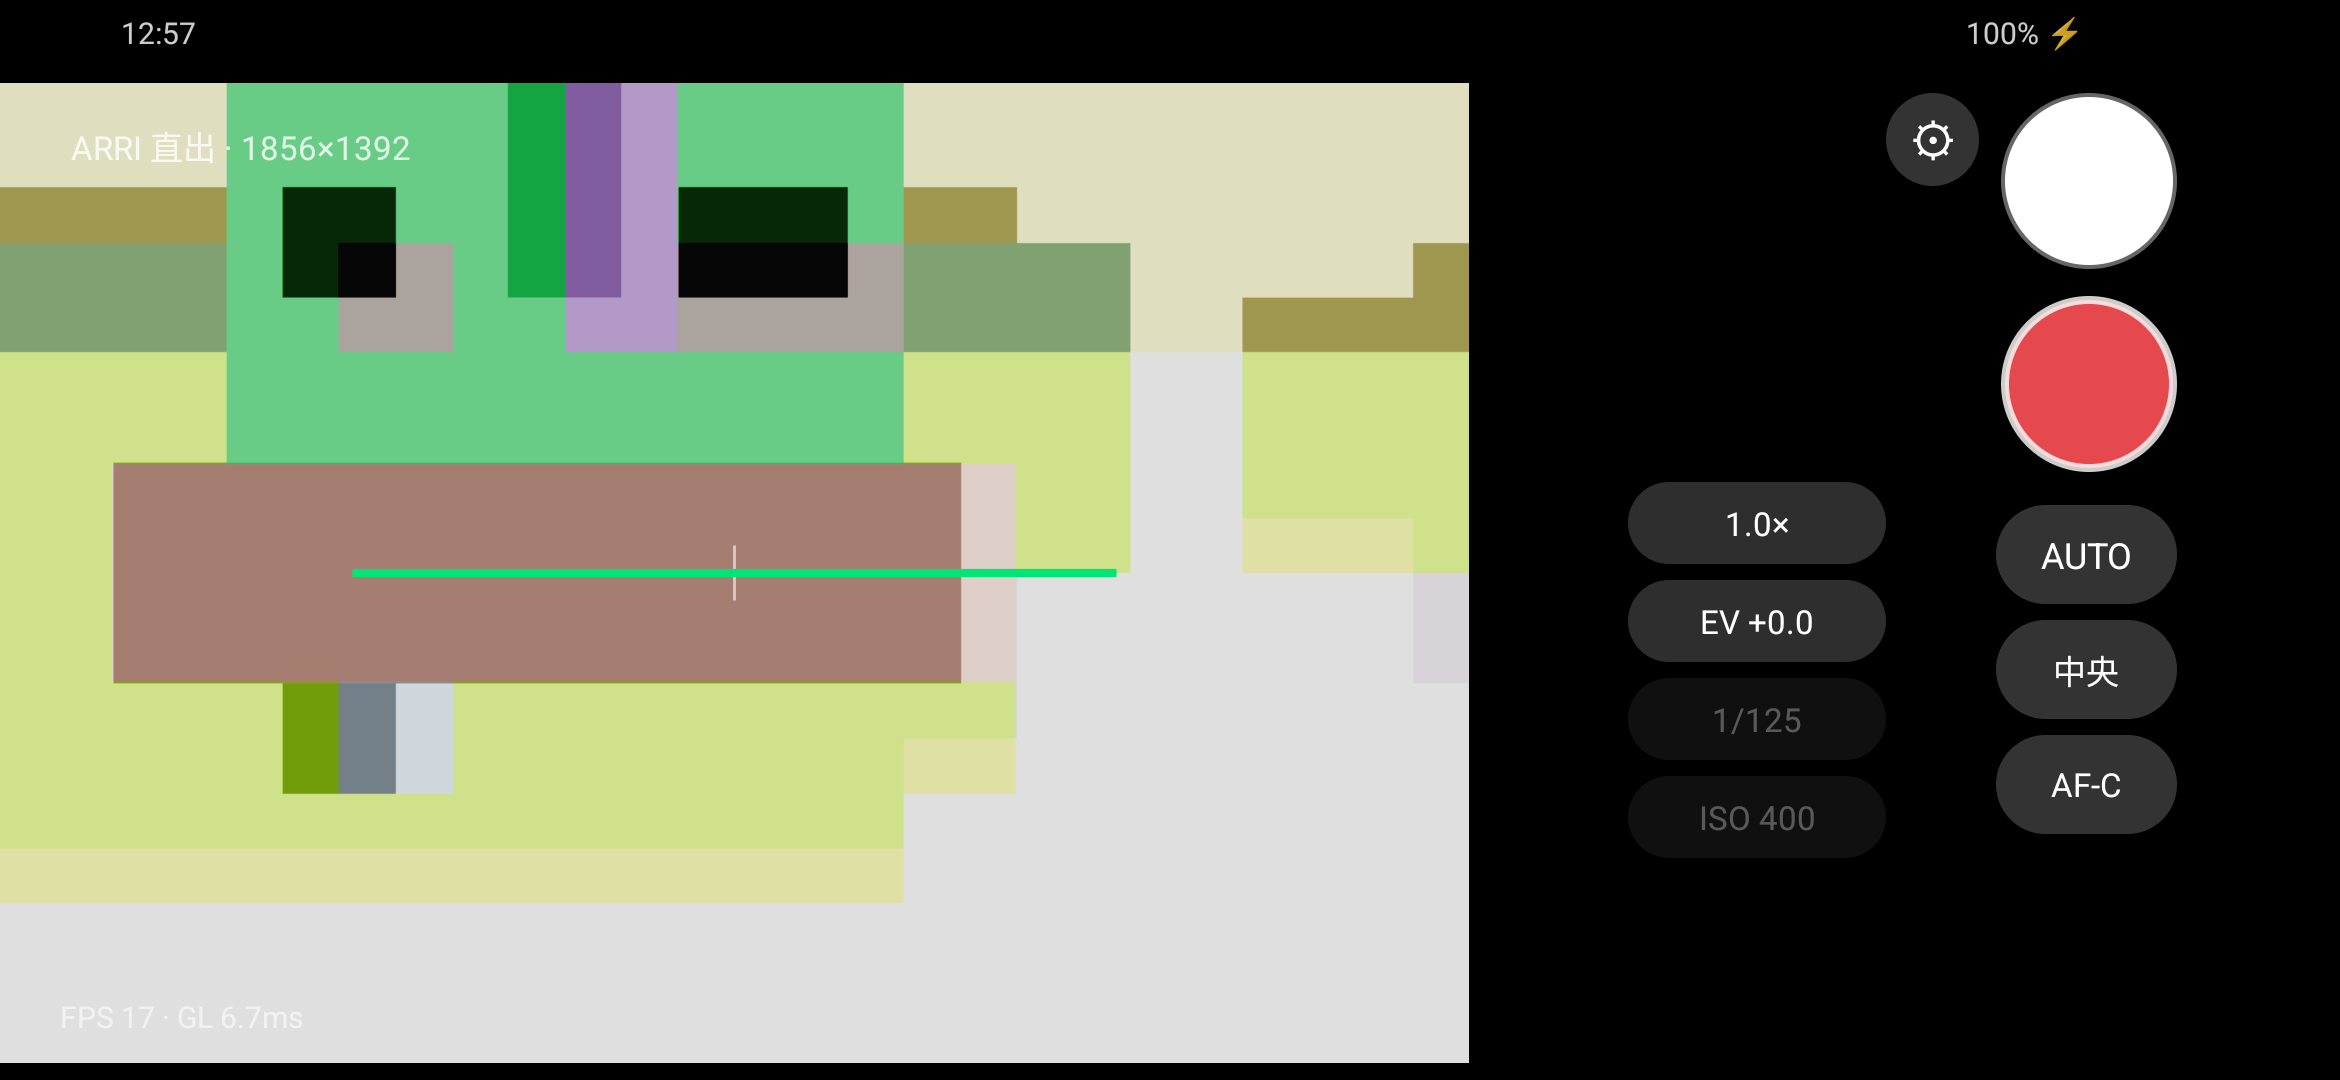
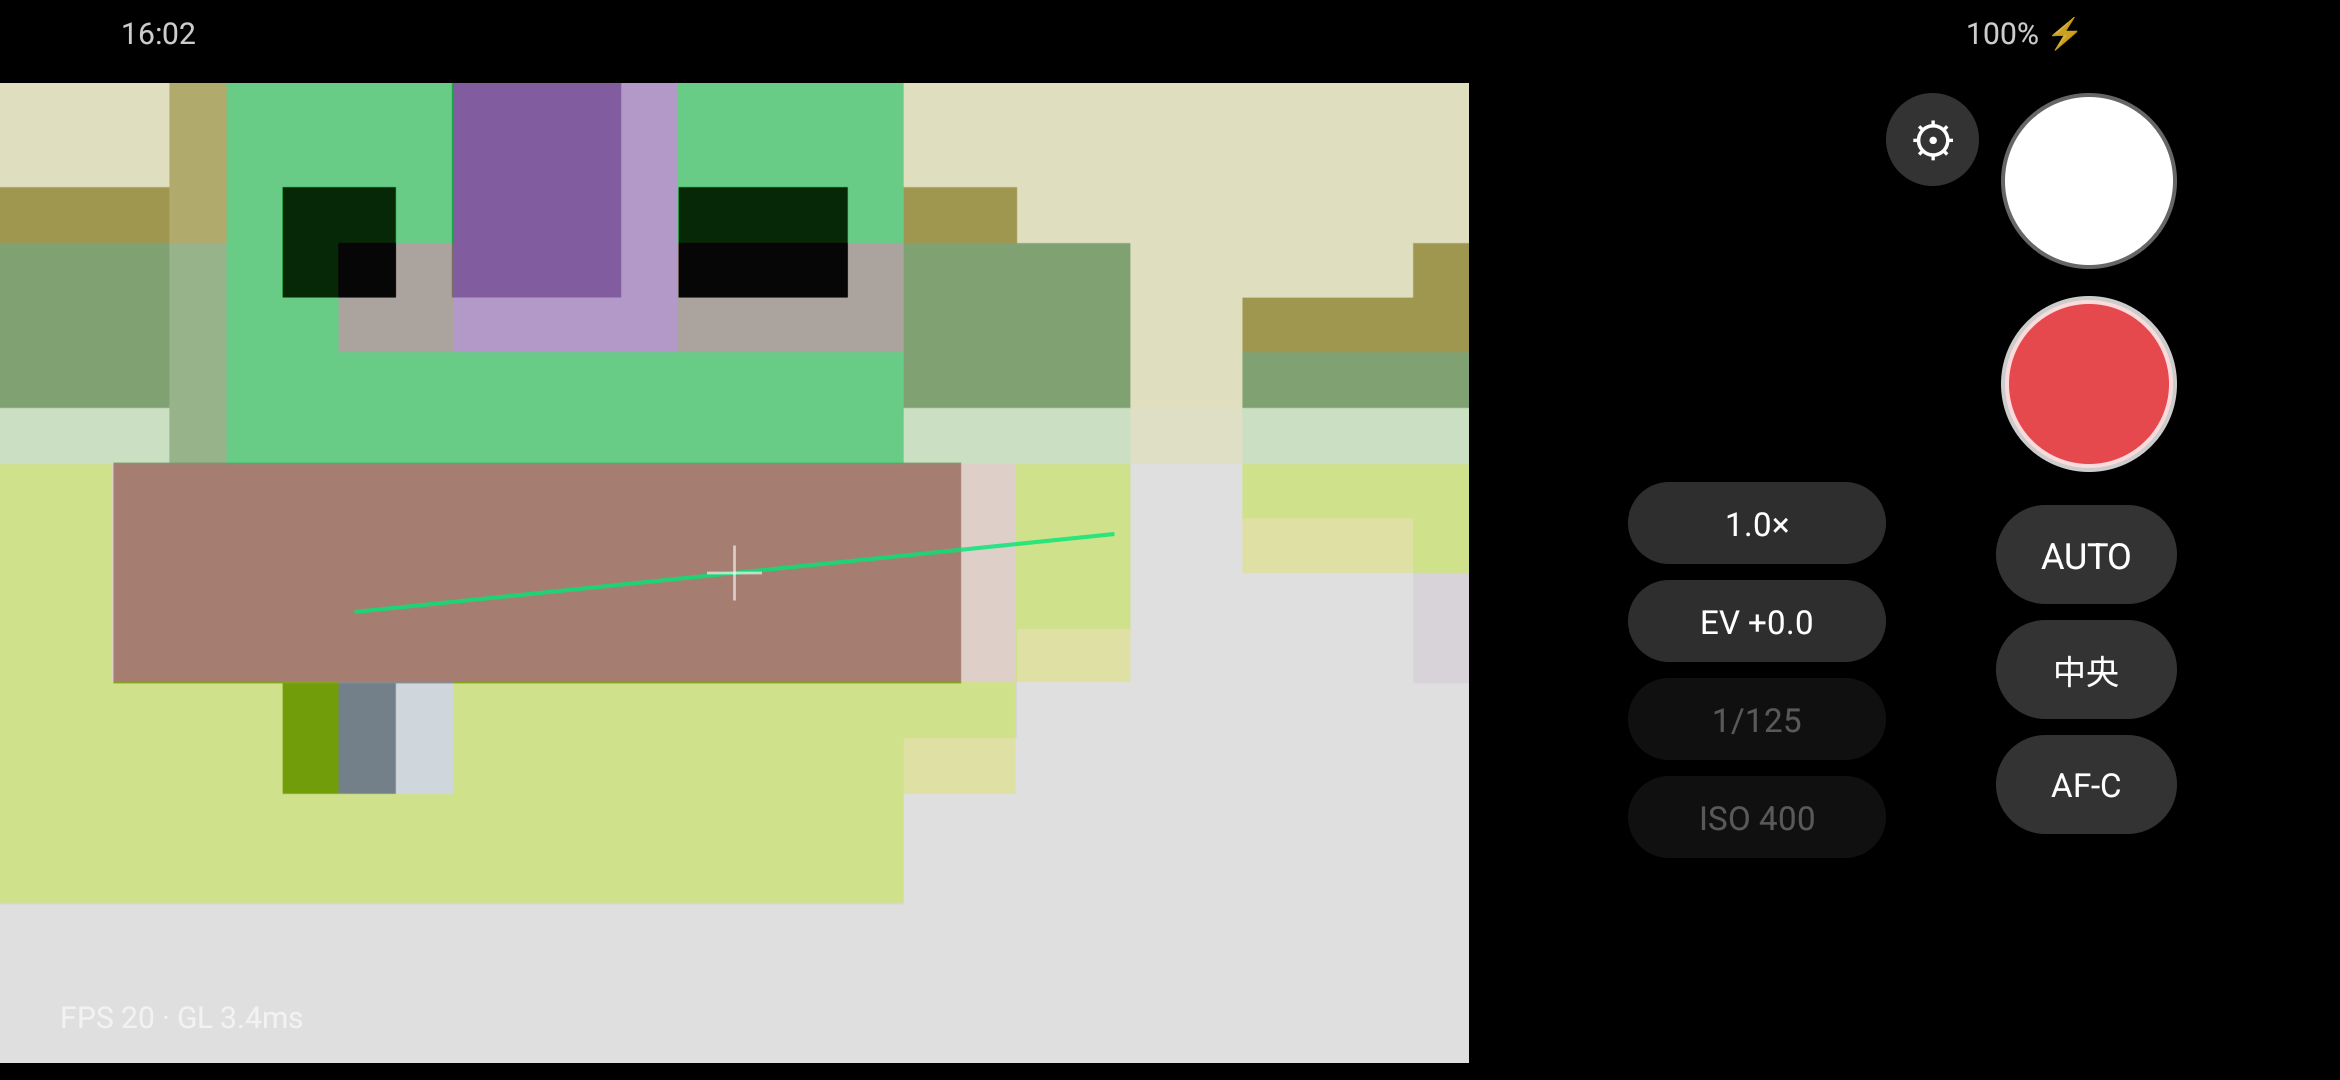
Lume: 水平仪左右方向取反

diff --git a/lume/app/src/main/java/com/magirri/lume/OrientationTracker.kt b/lume/app/src/main/java/com/magirri/lume/OrientationTracker.kt
@@ -59,7 +59,8 @@ class OrientationTracker(context: Context) : SensorEventListener {
         ).toFloat()
         if (r > 45f) r = 45f
         if (r < -45f) r = -45f
-        rollDeg = r
+        // 取反：之前左右方向是反的（往左倾线往右歪），改成跟随世界水平线
+        rollDeg = -r
 
         if (event.sensor.type != Sensor.TYPE_ACCELEROMETER) return
         val x = event.values[0]
